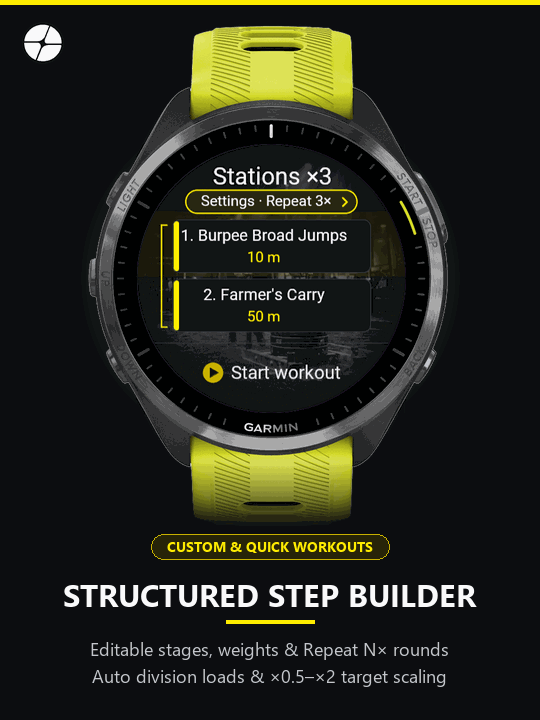
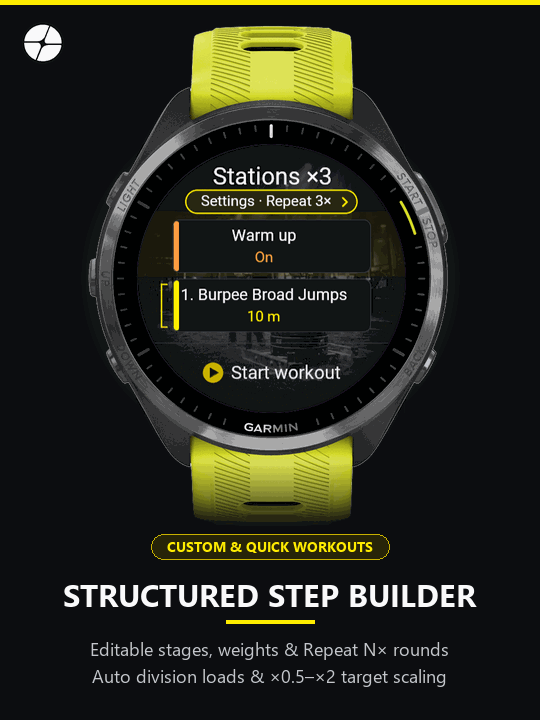
Update HYROX Hybrid Tracker page and Store visuals for v1.3.0

Changed region(s): [[0.2963, 0.3056, 0.6519, 0.3972], [0.3259, 0.3972, 0.6519, 0.4583]]

diff --git a/src/app/hyrox-tracker/page.tsx b/src/app/hyrox-tracker/page.tsx
@@ -91,23 +91,23 @@ const screenGallery = [
   {
     src: '/hybrid-tracker/card-03-race.png',
     badge: 'Race Setup',
-    title: 'GPS Mode & 1-Tap Roxzone Toggle',
+    title: 'Warm up, Division & Roxzone Setup',
     caption:
-      'Switch Indoor treadmill or Outdoor GPS and toggle Roxzone transitions right on the Ready card before locking in with Record.',
+      'Toggle Indoor GPS, Warm up, Roxzone transitions, and Singles/Doubles division right on the Ready card before starting.',
   },
   {
     src: '/hybrid-tracker/card-04-telemetry.png',
     badge: 'Live Race View',
-    title: 'Zone Arc, Undo & Concept2 PM5 BLE',
+    title: 'Immediate Laps & Concept2 PM5 BLE',
     caption:
-      'Track stage and total timers, heart rate zone arc, live Concept2 SkiErg/RowErg metrics, target run pace delta, and the lower-right LAP cue.',
+      'Track stage and total timers, heart rate zone arc, live Concept2 SkiErg/RowErg telemetry, optional target run pace delta, and immediate LAP boundaries.',
   },
   {
     src: '/hybrid-tracker/card-05-stats.png',
-    badge: 'Post-Workout Stats',
-    title: '12-Page Watch Summary & FIT Laps',
+    badge: 'Stats & Strava Cards',
+    title: 'Watch Analytics & Strava Share Cards',
     caption:
-      'Review TOTAL TIME, AVG HR, KCAL, PACE/km, compromised run drift, bottleneck station, and kg*m mechanical volume right on your wrist.',
+      'Review TOTAL TIME, AVG HR, KCAL, and PACE/km on your wrist, inspect clean Garmin Connect laps, or drop your .zip/.fit file into FIT Analyzer for a Strava PNG card.',
   },
 ];
 
@@ -119,15 +119,15 @@ const capabilities = [
     icon: Gauge,
   },
   {
-    title: 'Roxzone Lookahead & 5s Lap Undo',
+    title: 'Warm up & Roxzone Lookahead',
     description:
-      'When Roxzone transitions are enabled, both the active workout view and the 5-second Lap Undo banner preview the upcoming station (> Next Stage) so you never double-tap or miss a transition.',
+      'Record optional Warm up separately from main race time, and preview the upcoming station (> Next Stage) during Roxzone transitions up to 64 runtime stages.',
     icon: Timer,
   },
   {
-    title: '10 Quick Presets + Custom Builder',
+    title: '10 Quick Presets + Auto-Save Builder',
     description:
-      'Launch proven workouts like Half HYROX Sim, Compromised Running, or Sled & Grip x3, or build custom multi-round templates with x0.5-x2 target scaling directly inside the workout preview.',
+      'Launch Half HYROX Sim, Compromised Running, or Sled & Grip x3 with button scrolling, or build auto-saving custom circuits with MM:SS durations and x0.5-x2 scaling.',
     icon: Sliders,
   },
   {
@@ -139,13 +139,13 @@ const capabilities = [
   {
     title: 'Race-Day Ergonomics & Smooth Labels',
     description:
-      'Target run pace alerts with live ahead/behind deltas, a clear 4 o’clock LAP cue ideal for 2-button Venu watches, optional workout touch lock on 5-button watches, and marquee scrolling labels on every screen.',
+      'Optional Target Run Pace alerts with live ahead/behind deltas, a clear 4 o’clock LAP cue ideal for 2-button Venu watches, optional workout touch lock on 5-button watches, and marquee scrolling labels on every screen.',
     icon: Activity,
   },
   {
-    title: 'Named Garmin Connect Laps & Deep Stats',
+    title: 'Clean Connect Laps & Strava Cards',
     description:
-      'Writes custom FIT developer fields for stage names, targets, weights, and erg telemetry alongside 12 on-watch summary pages covering run pace decay, compromised runs, and slowest station bottlenecks.',
+      'Compact 15-field FIT laps, M:SS / H:MM:SS Connect Stats without truncation noise, 12 on-watch summary pages, and free browser .zip/.fit Strava PNG card generation.',
     icon: BarChart3,
   },
 ];
@@ -199,7 +199,7 @@ export default function HybridTrackerPage() {
     installUrl: CONNECT_IQ_URL,
     applicationCategory: 'SportsApplication',
     operatingSystem: 'Garmin Connect IQ',
-    softwareVersion: '1.2.1',
+    softwareVersion: '1.3.0',
     image: 'https://resiliento.app/hybrid-tracker/hero-banner.jpg',
     offers: {
       '@type': 'Offer',
@@ -237,7 +237,7 @@ export default function HybridTrackerPage() {
         <div className="mt-7 flex flex-wrap items-center gap-3">
           <span className="inline-flex items-center gap-2 rounded-full border border-[#FFED00]/35 bg-[#FFED00]/10 px-3.5 py-1 font-mono text-xs font-semibold uppercase tracking-wider text-[#FFED00]">
             <span className="h-2 w-2 rounded-full bg-[#FFED00]" />
-            Live on Connect IQ · v1.2.1
+            Live on Connect IQ · v1.3.0
           </span>
           <span className="rounded-full border border-white/15 bg-neutral-900 px-3.5 py-1 font-mono text-xs uppercase tracking-wider text-slate-300">
             100% Free · Offline-First · 101 Watches
@@ -395,10 +395,10 @@ export default function HybridTrackerPage() {
       </section>
 
       <section className="my-12 rounded-2xl border border-brand/30 bg-brand/5 p-7 sm:p-10">
-        <p className="mb-3 text-sm font-semibold uppercase tracking-wider text-brand">After the workout</p>
-        <h2 className="text-2xl font-semibold sm:text-3xl">See the whole picture in your browser.</h2>
-        <p className="mt-4 max-w-3xl text-base leading-relaxed text-slate-300">Open your saved FIT to explore run splits, every performed station and recorded heart rate. Download a workout card and prepare a title and description for Strava. Your activity file stays on your device.</p>
-        <Link href="/tools/fit-analyzer" className="mt-6 inline-flex rounded-lg bg-brand px-6 py-3 text-base font-semibold text-black">Analyze a FIT workout</Link>
+        <p className="mb-3 text-sm font-semibold uppercase tracking-wider text-brand">After the workout · Strava Share Card</p>
+        <h2 className="text-2xl font-semibold sm:text-3xl">Generate your Strava card &amp; analyze every split in your browser.</h2>
+        <p className="mt-4 max-w-3xl text-base leading-relaxed text-slate-300">Drop your Garmin Connect .zip export or .fit file directly into your browser to inspect every run split, station result, and heart-rate phase, then download a branded 4:5 Strava PNG workout card and formatted split summary. Your activity file stays on your device.</p>
+        <Link href="/tools/fit-analyzer" className="mt-6 inline-flex rounded-lg bg-brand px-6 py-3 text-base font-semibold text-black">Open FIT Analyzer &amp; Strava Card</Link>
       </section>
       {/* 6 Core Capability Cards */}
       <section className="border-b border-border py-16">
@@ -485,9 +485,9 @@ export default function HybridTrackerPage() {
                   </h3>
                   <p className="mt-1 text-sm leading-relaxed text-slate-300">
                     Press LAP (or tap the 4 o&apos;clock cue) at each stage
-                    boundary with 5s Lap Undo protection, then review 12 watch
-                    pages or open Activity → Laps in Garmin Connect (rotate
-                    phone to landscape to view all named stage columns).
+                    boundary for immediate lap recording, then review 12 watch
+                    pages, open Activity → Laps in Garmin Connect, or generate a
+                    Strava PNG card at /tools/fit-analyzer.
                   </p>
                 </div>
               </li>
